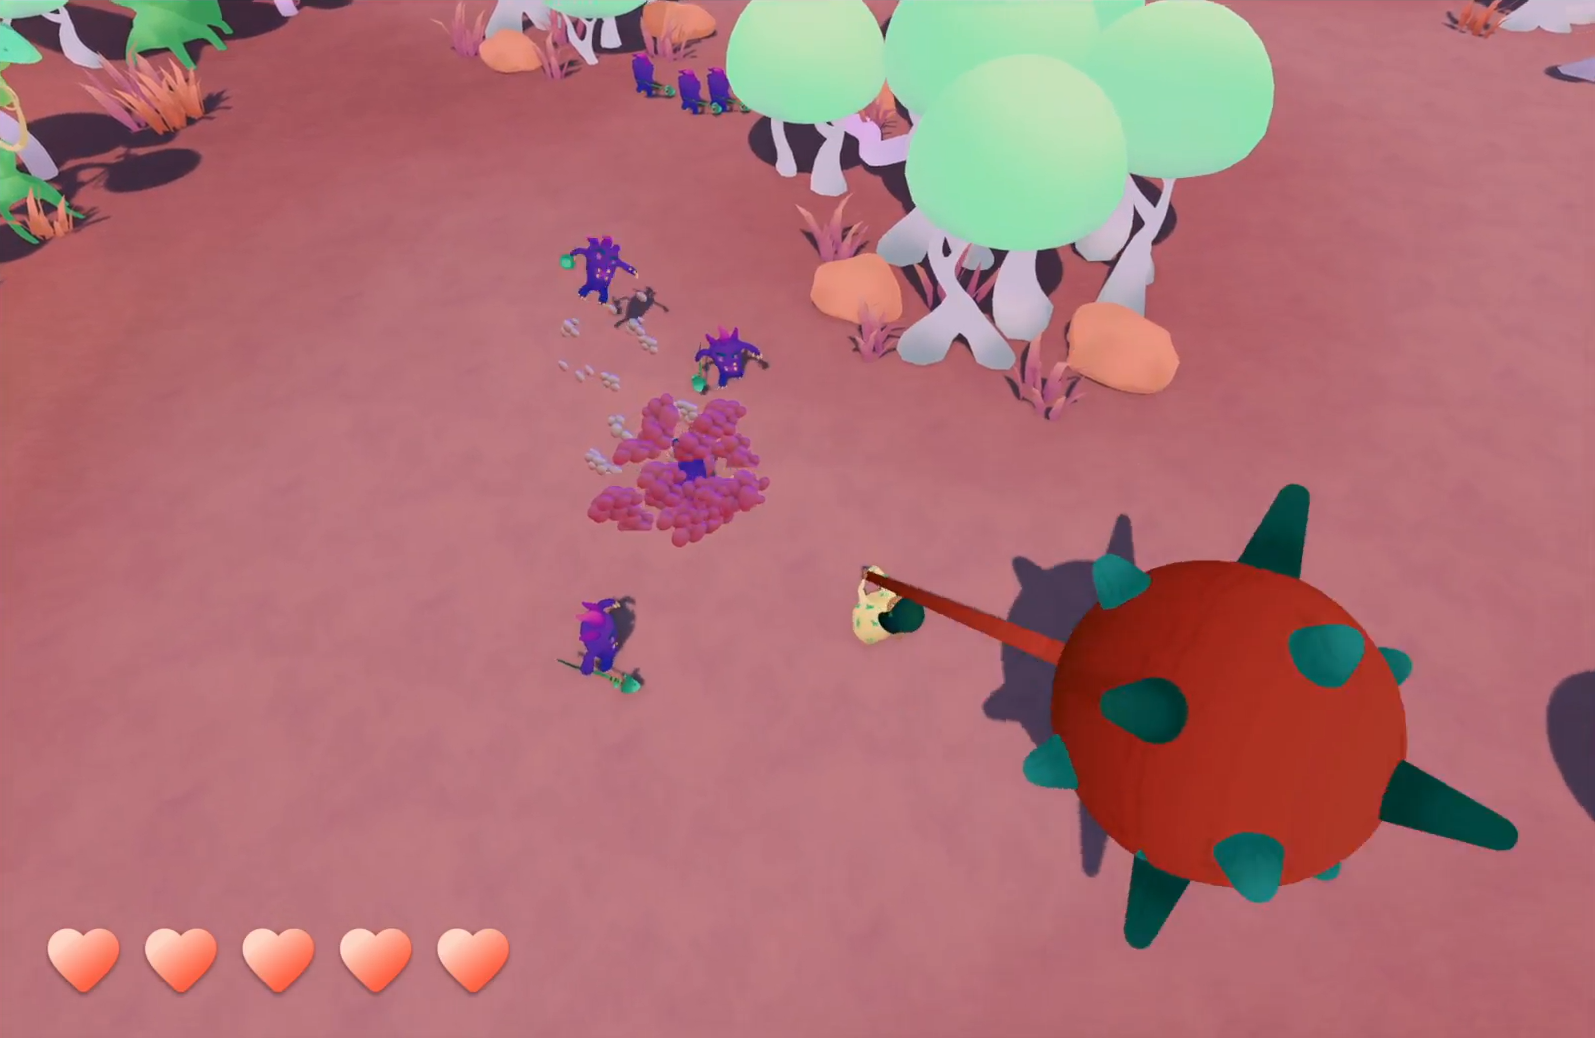
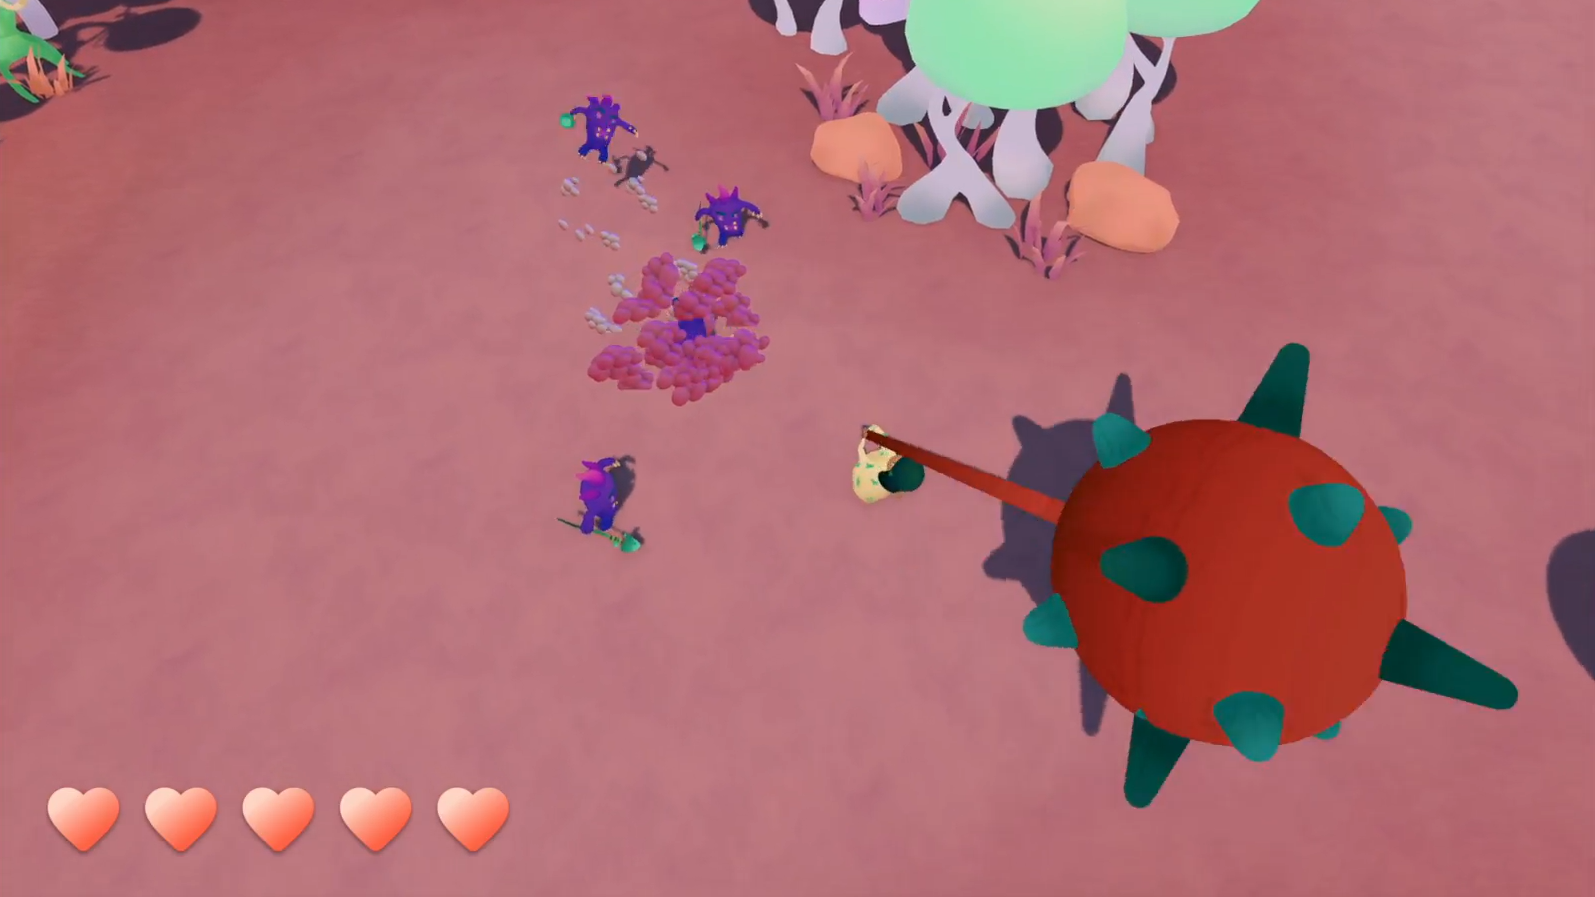
Updated images to fit in 16:9 ratio

diff --git a/src/pages/Home/Projects/ProjectTile/styles.ts b/src/pages/Home/Projects/ProjectTile/styles.ts
@@ -15,6 +15,7 @@ export const Overlay = styled.div`
   justify-content: center;
   opacity: 0;
   transition: opacity 0.3s ease;
+  aspect-ratio: 16 / 9;
   &:hover {
     opacity: 1;
   }
@@ -23,7 +24,6 @@ export const Overlay = styled.div`
 export const Tile = styled(Link)`
   position: relative;
   width: 100%;
-  height: 200px;
   display: block;
   overflow: hidden;
   border-radius: 2px;

diff --git a/src/pages/Project/styles.ts b/src/pages/Project/styles.ts
@@ -73,6 +73,10 @@ export const TechnicalDescriptionContainer = styled.div`
       margin-bottom: 0.6em;
       text-align: justify;
     }
+    @media (max-width: 768px) {
+      margin-left: 1.5em;
+      margin-right: 1em;
+    }
   }
   strong {
     font-weight: bold;
